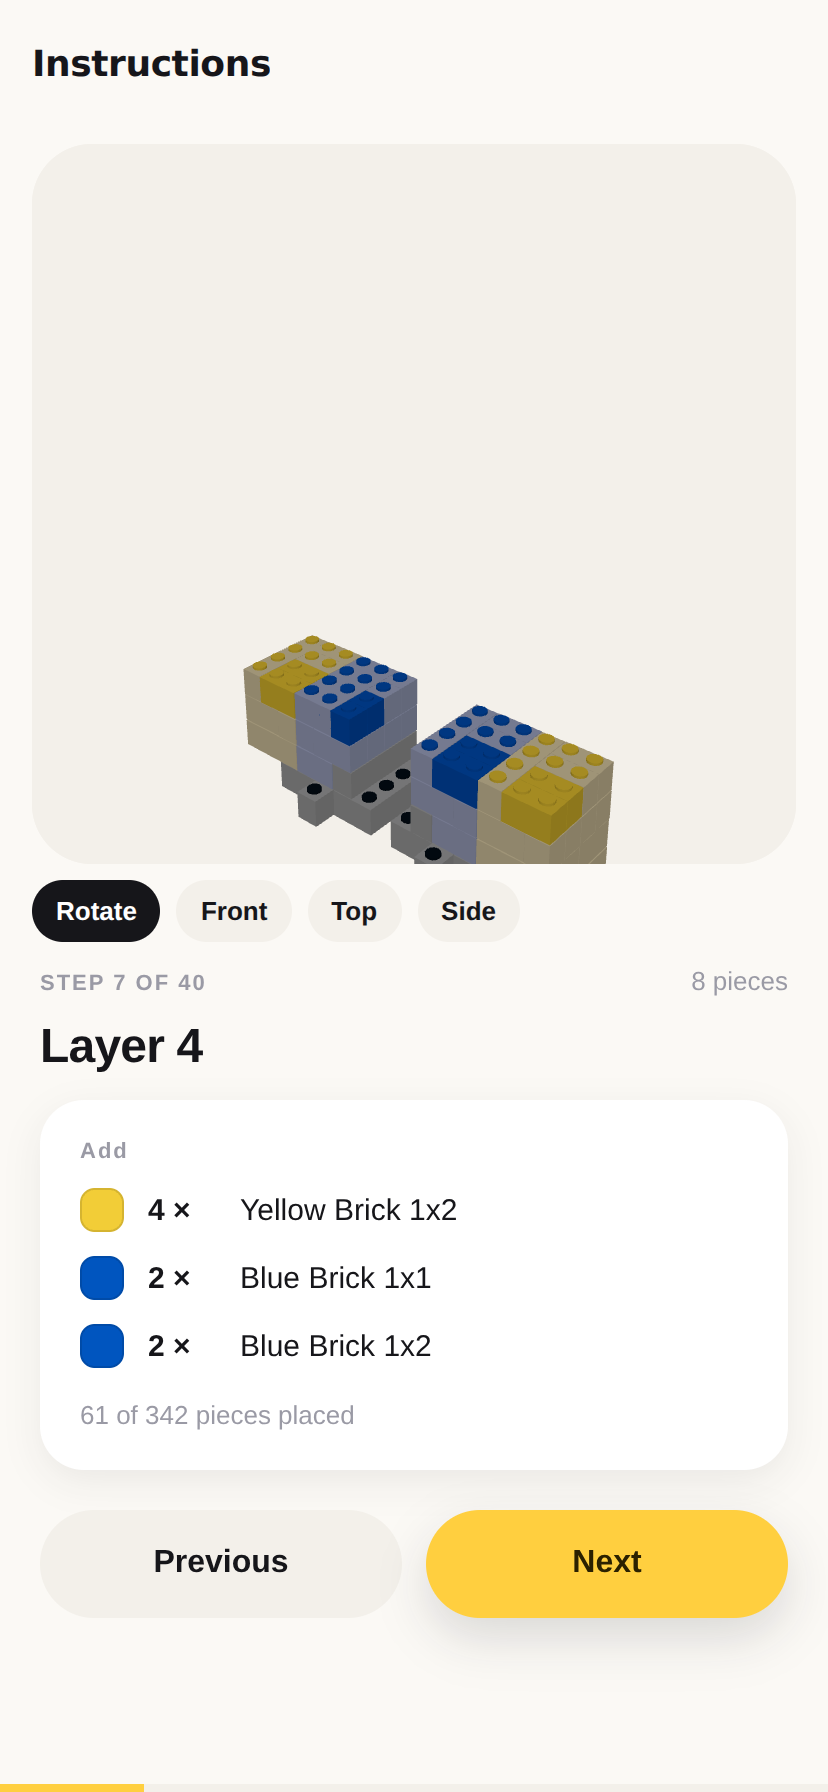
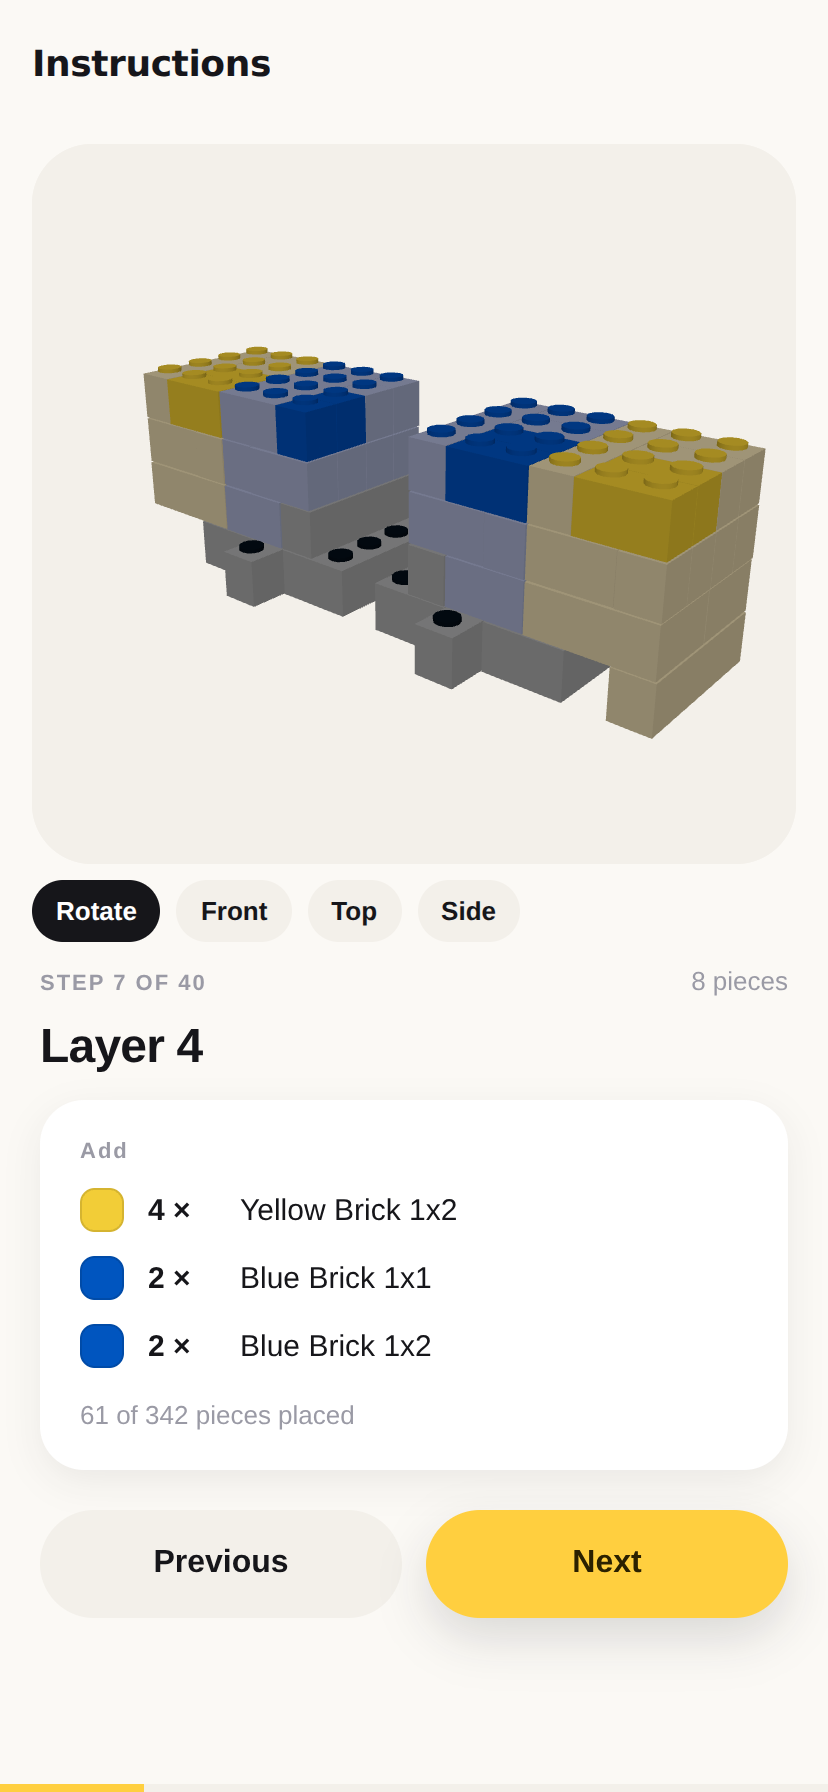
Frame each instruction step on the part of the model that exists yet
Every step framed the finished model, so the first twenty pages of a
fifty-step booklet showed the pieces you had placed as a thumbnail in the
corner of an empty box — the one thing a step picture must not be.

The camera now fits what is built so far, never tighter than a third of the
whole model, so the early steps are readable and the frame settles on the
real thing rather than jumping between wildly different zooms. Each brick's
box is recorded when the scene is built, so refitting a step is a pass over
numbers rather than a rebuild.

Claude-Session: https://claude.ai/code/session_01DN3ASz877QidN4x2vff69y

Changed region(s): [[0.151, 0.1875, 0.936, 0.5]]

diff --git a/app/src/components/BrickViewer.tsx b/app/src/components/BrickViewer.tsx
@@ -136,6 +136,7 @@ export default function BrickViewer({
     const total = geometry.bricks.length;
     const shown = visibleCount == null ? total : Math.max(0, Math.min(total, visibleCount));
     mesh.count = shown;
+    frameBuilt(scene, shown, total);
     if (studs) {
       // Studs are indexed separately; keep them in step with the bricks.
       studs.count = studCountFor(geometry, shown);
@@ -177,6 +178,18 @@ export default function BrickViewer({
       scene.group = group;
 
       build(geometry, group, scene);
+      // The count effect has already run by now, against a scene that had no
+      // bricks in it, so the first frame has to be set here or step one opens
+      // showing the whole finished model.
+      {
+        const total = geometry.bricks.length;
+        const shown = visibleCount == null
+          ? total : Math.max(0, Math.min(total, visibleCount));
+        scene.bricks!.count = shown;
+        if (scene.studs) scene.studs.count = studCountFor(geometry, shown);
+        applyHighlight(scene, geometry, highlightFrom, shown);
+        frameBuilt(scene, shown, total);
+      }
 
       const renderFrame = () => {
         requestAnimationFrame(renderFrame);
@@ -190,6 +203,9 @@ export default function BrickViewer({
       state.dirty = true;
       renderFrame();
     },
+    // Intentionally not re-created when the step changes: the GL context is
+    // built once and the count effect drives it from then on.
+    // eslint-disable-next-line react-hooks/exhaustive-deps
     [geometry, scene, state],
   );
 
@@ -232,6 +248,8 @@ function build(geometry: Geometry, group: THREE.Group, scene: any) {
 
   let studIndex = 0;
 
+  const spans: number[] = new Array(bricks.length * 6).fill(0);
+
   bricks.forEach(([partId, colorId, x, y, z, rotation], i) => {
     const part = parts[partId];
     if (!part) return;
@@ -257,8 +275,12 @@ function build(geometry: Geometry, group: THREE.Group, scene: any) {
     colour.set(hex);
     brickMesh.setColorAt(i, colour);
 
-    min.min(new THREE.Vector3(cx - sizeX / 2, cy - sizeY / 2, cz - sizeZ / 2));
-    max.max(new THREE.Vector3(cx + sizeX / 2, cy + sizeY / 2, cz + sizeZ / 2));
+    const lo = new THREE.Vector3(cx - sizeX / 2, cy - sizeY / 2, cz - sizeZ / 2);
+    const hi = new THREE.Vector3(cx + sizeX / 2, cy + sizeY / 2, cz + sizeZ / 2);
+    min.min(lo);
+    max.max(hi);
+    spans[i * 6] = lo.x; spans[i * 6 + 1] = lo.y; spans[i * 6 + 2] = lo.z;
+    spans[i * 6 + 3] = hi.x; spans[i * 6 + 4] = hi.y; spans[i * 6 + 5] = hi.z;
 
     if (part.has_studs) {
       for (let dx = 0; dx < w; dx += 1) {
@@ -291,6 +313,9 @@ function build(geometry: Geometry, group: THREE.Group, scene: any) {
   const centre = new THREE.Vector3().addVectors(min, max).multiplyScalar(0.5);
   scene.centre = centre;
   scene.radius = Math.max(20, min.distanceTo(max) / 2);
+  scene.spans = spans;
+  scene.fullCentre = centre.clone();
+  scene.fullRadius = scene.radius;
 }
 
 /** Studs belonging to the first `count` bricks, in the same order. */
@@ -323,6 +348,43 @@ function applyHighlight(
     }
   }
   mesh.instanceColor.needsUpdate = true;
+}
+
+/**
+ * Point the camera at the part of the model that exists yet.
+ *
+ * Framing the finished model for every step leaves the first twenty pages of
+ * a long booklet as a thumbnail in the corner of an empty box, which is the
+ * one thing a step picture must not be. The frame never goes tighter than a
+ * third of the whole model, so the early steps grow rather than jumping
+ * between wildly different zooms, and it settles on the real thing by the
+ * end.
+ */
+function frameBuilt(scene: any, shown: number, total: number) {
+  const spans: number[] | undefined = scene.spans;
+  if (!spans || !scene.fullCentre) return;
+  if (shown >= total || shown <= 0) {
+    scene.centre = scene.fullCentre.clone();
+    scene.radius = scene.fullRadius;
+    return;
+  }
+  let lx = Infinity, ly = Infinity, lz = Infinity;
+  let hx = -Infinity, hy = -Infinity, hz = -Infinity;
+  for (let i = 0; i < shown; i += 1) {
+    const o = i * 6;
+    if (spans[o] < lx) lx = spans[o];
+    if (spans[o + 1] < ly) ly = spans[o + 1];
+    if (spans[o + 2] < lz) lz = spans[o + 2];
+    if (spans[o + 3] > hx) hx = spans[o + 3];
+    if (spans[o + 4] > hy) hy = spans[o + 4];
+    if (spans[o + 5] > hz) hz = spans[o + 5];
+  }
+  if (!Number.isFinite(lx)) return;
+  const half = Math.hypot(hx - lx, hy - ly, hz - lz) / 2;
+  scene.centre = new THREE.Vector3((lx + hx) / 2, (ly + hy) / 2, (lz + hz) / 2);
+  // A quarter again, so a wide flat first layer is not clipped by the edges
+  // of the picture.
+  scene.radius = Math.max(20, half * 1.25, scene.fullRadius * 0.34);
 }
 
 function position(camera: THREE.PerspectiveCamera, scene: any, state: any) {
